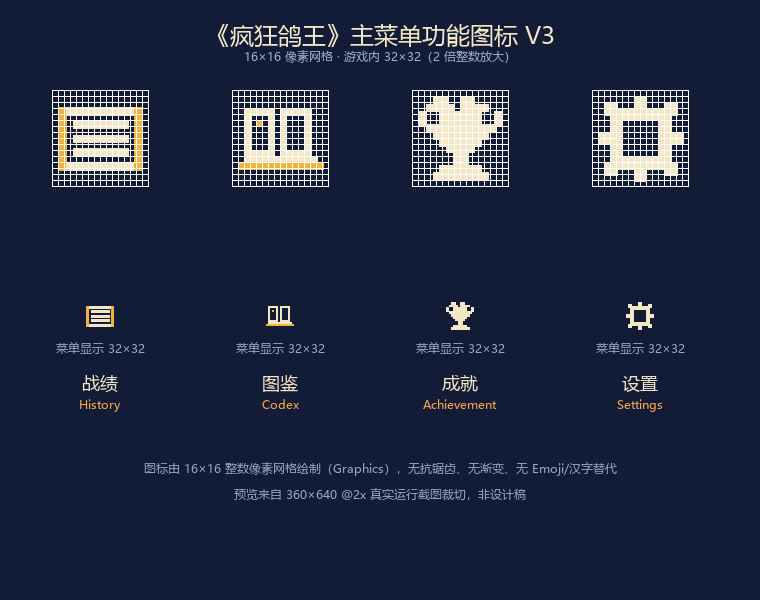
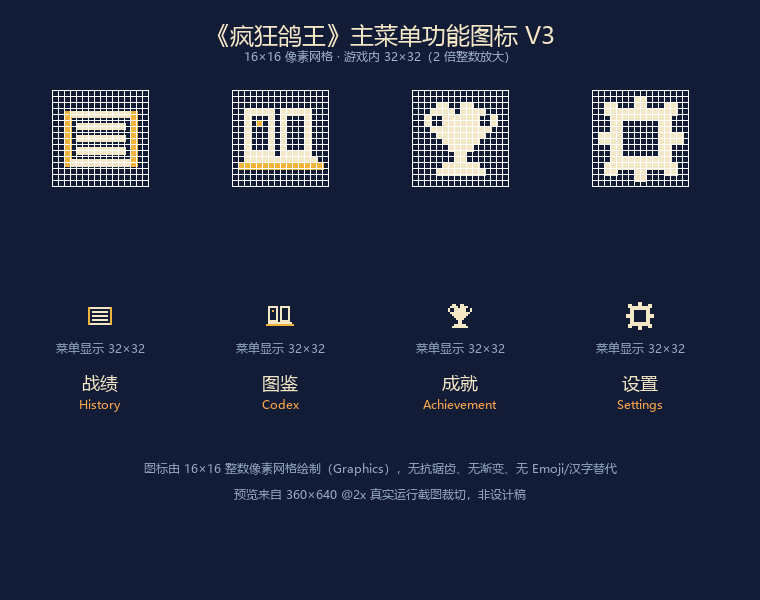
主菜单 V3 微调：继续冒险与开始新冒险统一 310×84；底部功能入口上移 22px；同步图标预览与测试报告

diff --git a/cocos/assets/scripts/ui/MenuScreens.ts b/cocos/assets/scripts/ui/MenuScreens.ts
@@ -147,25 +147,27 @@ export function buildMenu(parent: Node, seed: number, vm: MenuView, h: MenuHandl
   const hasSave = vm.saveState === 'ok' && !!vm.info;
   if (hasSave && vm.info) {
     const info = vm.info;
-    const card = panel(root, at2(180, coreY).x, at2(180, coreY).y, 310, 120, { art: 'panel' });
-    const bar = mkNode(card, 'saveBar', 5, 100, -150, 0);
+    // 继续卡与"开始新冒险"保持同尺寸（310×84），间距 12
+    const card = panel(root, at2(180, coreY).x, at2(180, coreY).y, 310, 84, { art: 'panel' });
+    const bar = mkNode(card, 'saveBar', 5, 64, -150, 0);
     const bg2 = bar.addComponent(Graphics);
-    bg2.fillColor = COL.accent; bg2.rect(-2.5, -50, 5, 100); bg2.fill();
+    bg2.fillColor = COL.accent; bg2.rect(-2.5, -32, 5, 64); bg2.fill();
 
-    text(card, -138, 36, '继续冒险', { size: 18, color: COL.accent, align: 'left', width: 200, bold: true, outline: true });
+    text(card, -138, 26, '继续冒险', { size: 18, color: COL.accent, align: 'left', width: 200, bold: true, outline: true });
     // 继续图标：像素三角形（不是文字 ▶）
-    const tri = mkNode(card, 'go', 18, 18, 128, 36);
+    const tri = mkNode(card, 'go', 18, 18, 128, 26);
     const tg = tri.addComponent(Graphics);
     tg.fillColor = COL.accent;
     tg.rect(-6, -7, 4, 14); tg.rect(-2, -4, 4, 8); tg.rect(2, -2, 4, 4); tg.fill();
 
-    text(card, -138, 4, info.charName + ' · 第 ' + info.wave + '/' + info.totalWaves + ' 波 · ' + info.difficultyName,
+    text(card, -138, 2, info.charName + ' · 第 ' + info.wave + '/' + info.totalWaves + ' 波 · ' + info.difficultyName,
       { size: 11, color: COL.cream, align: 'left', width: 280, bold: true, outline: true });
-    text(card, -138, -26, '生命 ' + info.hp + '/' + info.maxhp + ' · ' + info.durationText,
+    text(card, -138, -22, '生命 ' + info.hp + '/' + info.maxhp + ' · ' + info.durationText,
       { size: 10, color: COL.dim, align: 'left', width: 260 });
     pressable(card, h.onContinue);
 
-    const newBtn = button(root, at2(180, coreY + 86).x, at2(180, coreY + 86).y, 260, 42, '开始新冒险', { size: 14 });
+    const startY2 = coreY + 84 + 12;
+    const newBtn = button(root, at2(180, startY2).x, at2(180, startY2).y, 310, 84, '开始新冒险', { size: 18 });
     onTap(newBtn.node, h.onStart);
   } else if (vm.saveState === 'corrupt') {
     const card = panel(root, at2(180, coreY).x, at2(180, coreY).y, 310, 110, { art: 'panel_soft' });
@@ -174,7 +176,7 @@ export function buildMenu(parent: Node, seed: number, vm: MenuView, h: MenuHandl
     text(card, -132, -24, '点此清除坏档后重新开始', { size: 9, color: COL.dim, align: 'left', width: 280 });
     onTap(card, () => { if (h.onDiscardSave) h.onDiscardSave(); });
 
-    const startBtn = button(root, at2(180, coreY + 86).x, at2(180, coreY + 86).y, 260, 46, '开始冒险', { primary: true, size: 17 });
+    const startBtn = button(root, at2(180, coreY + 96).x, at2(180, coreY + 96).y, 310, 84, '开始冒险', { primary: true, size: 18 });
     onTap(startBtn.node, h.onStart);
   } else {
     const startBtn = button(root, at2(180, coreY + 6).x, at2(180, coreY + 6).y, 280, 60, '开始冒险', { primary: true, size: 21 });
@@ -182,7 +184,7 @@ export function buildMenu(parent: Node, seed: number, vm: MenuView, h: MenuHandl
   }
 
   // ── C. 底部功能入口（真实像素图标，无汉字替代）──
-  const rowY = VH - B - 64;
+  const rowY = VH - B - 86;   // 用户要求：底部入口整体上移
   menuEntry(root, at2(45, rowY).x, at2(45, rowY).y, 'history', '战绩', h.onHistory);
   menuEntry(root, at2(135, rowY).x, at2(135, rowY).y, 'codex', '图鉴', h.onCodex);
   menuEntry(root, at2(225, rowY).x, at2(225, rowY).y, 'achievement', '成就', h.onAchievements);

diff --git a/tools/art/menu_v3_icons_preview.py b/tools/art/menu_v3_icons_preview.py
@@ -18,20 +18,21 @@ def is_icon_px(p):
     r, g, b, a = p
     if a < 128:
         return False
-    # 米白或金色像素
-    return (r > 170 and g > 150 and b > 150) or (r > 200 and g > 140 and b < 140)
+    # 只认图标调色板：米白 (244,231,198) 或金色 (242,179,61)，避免把石板路/文字算进来
+    return (r > 205 and g > 185 and b > 160) or (r > 205 and g > 140 and b < 130)
 
 crops = []
 for cx in centers:
     xs, ys = [], []
-    for y in range(1010, 1150):
-        for x in range(cx - 44, cx + 44):
+    for y in range(1040, 1128):
+        for x in range(cx - 36, cx + 36):
             if 0 <= x < W and is_icon_px(img.getpixel((x, y))):
                 xs.append(x); ys.append(y)
     if not xs:
         raise SystemExit("icon not found near x=%d" % cx)
     x0, x1, y0, y1 = min(xs), max(xs), min(ys), max(ys)
-    side = max(x1 - x0, y1 - y0) + 8
+    # 图标固定 32 设计像素 = 64 图像像素（@2x），按 bbox 中心裁 64×64
+    side = 64
     mx, my = (x0 + x1) // 2, (y0 + y1) // 2
     box = (mx - side // 2, my - side // 2, mx + side // 2, my + side // 2)
     cell = img.crop(box)

diff --git a/docs/ui/menu_v3_design.md b/docs/ui/menu_v3_design.md
@@ -18,14 +18,17 @@
 | 区域 | 位置 | 内容 |
 |---|---|---|
 | A 顶部 LOGO | 「疯狂鸽王」中心 S+40（32px），英文副标 S+64（8px） | 仅 LOGO + 副标 |
-| B 中央操作 | 有存档：继续卡 310×120，中心 `max(S+200, VH×0.47)`；开始新冒险 260×42，卡下方 86 | 无存档：开始冒险 280×60，中心同区域 +6 |
-| C 底部入口 | 图标中心 `VH-B-72`，标签 -26；四列 x=45/135/225/315，热区 84×72 | 战绩 / 图鉴 / 成就 / 设置 |
+| B 中央操作 | 有存档：继续卡 **310×84**，中心 `max(S+200, VH×0.47)`；开始新冒险 **310×84（同尺寸）**，卡下 12 | 无存档：开始冒险 280×60，中心同区域 +6 |
+| C 底部入口 | 入口中心 `VH-B-86`（相对上一版上移 22），图标 +8 / 标签 -26；四列 x=45/135/225/315，热区 84×72 | 战绩 / 图鉴 / 成就 / 设置 |
 
 ### 继续卡内容（三行）
 
 1. 「继续冒险」18px + 像素三角箭头（Graphics 画的 3 段矩形，不是文字 ▶）；
 2. `角色名 · 第 12/20 波 · 普通` 11px；
 3. `生命 45/72 · 00:08` 10px dim。
+
+> 2026-10-31 用户反馈后调整：继续卡与「开始新冒险」按钮统一为 310×84，间距 12；
+> 底部四个入口整体上移 22px（`VH-B-86`）。
 
 - 按下整卡缩放到 0.97，松手恢复；点击音由 `onTap` 统一播放。
 - 卡下方「开始新冒险」明显更小；有存档时点击仍走三选确认（继续 / 放弃并开始 / 返回）。

diff --git a/docs/review/menu_v3_test_report.md b/docs/review/menu_v3_test_report.md
@@ -20,7 +20,7 @@ tsx tests/run.ts                -> PASS 435 / FAIL 0
 cd ..
 cmd /c "build-wechat.bat -nopause"
   -> build success；主包 3.11MB / 总计 10.94MB
-  -> assets/main/index.js 299,332 B，16:55:11
+  -> assets/main/index.js 299,333 B，17:07:31
 
 node tools/ui/shot_menu_v3.cjs
   -> errors=none（6 张截图）
@@ -31,6 +31,13 @@ node tools/ui/shot_menu_v3.cjs
 | 总断言 | 435 |
 | PASS / FAIL / SKIP | 435 / 0 / 0 |
 | 原始日志 | `test_reports/test_execution.log` |
+
+## 2.1 验收后布局微调（2026-10-31）
+
+- 继续冒险卡与「开始新冒险」统一为 **310×84**，间距 12；
+- 底部四个入口中心由 `VH-B-64` 上移到 `VH-B-86`（上移 22px）；
+- 重新截图并重新构建：index.js 299,333 B（17:07:31），主包 3.11MB / 总计 10.94MB；
+- 图标逻辑与历史页面未改。
 
 ## 3. 截图（真实运行，360×640 @2x）
 
@@ -78,4 +85,4 @@ node tools/ui/shot_menu_v3.cjs
 | 命令 | `cmd /c "build-wechat.bat -nopause"` |
 | 结果 | success |
 | 主包 / 总计 | 3.11MB / 10.94MB |
-| index.js | 299,332 B，2026-10-31 16:55:11 |
+| index.js | 299,333 B，2026-10-31 17:07:31 |
